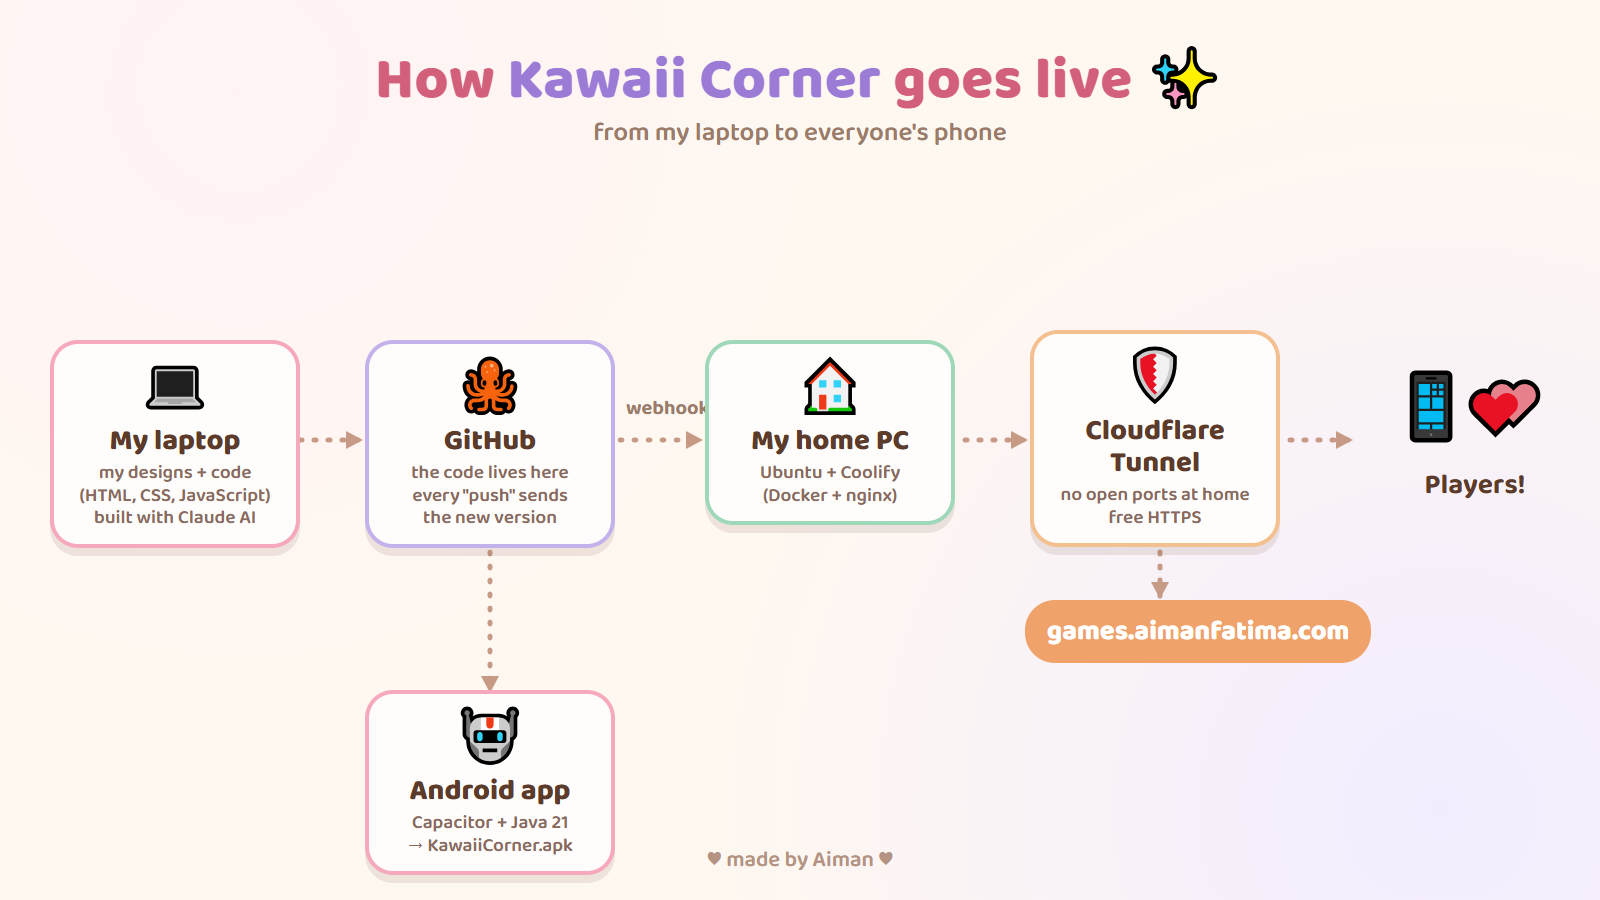
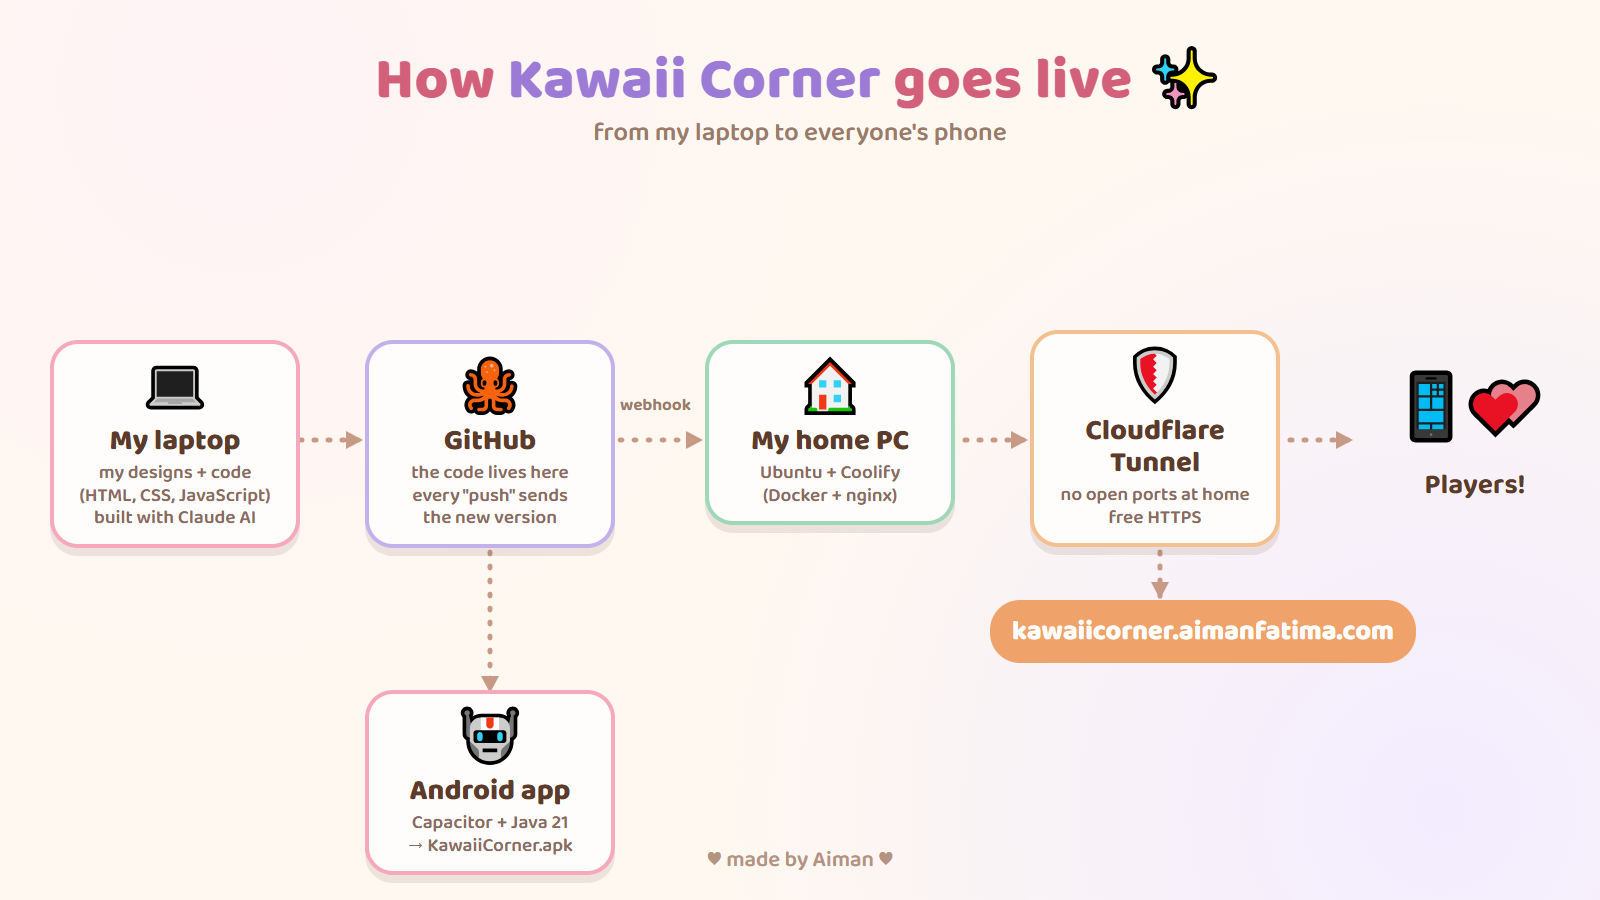
Hosting diagram shows kawaiicorner.aimanfatima.com

Changed region(s): [[0.5938, 0.6533, 0.9062, 0.7467], [0.375, 0.4356, 0.4375, 0.4667]]

diff --git a/HANDOFF.md b/HANDOFF.md
@@ -9,7 +9,7 @@ I'm Aiman (beginner developer, Pakistan; I like short plain explanations and pic
 **Where it lives**
 - Project: `C:\Users\QA\Desktop\flappy-bunny` (git, branch `main`, GitHub: https://github.com/aimanfatima25/bunny-world, public)
 - Website (auto-deploys on every push): https://kawaiicorner.vercel.app — always send me this link after changes
-- Also on my Coolify server: https://kawaiicorner.aimanfatima.com (new name, my uncle's idea) and https://games.aimanfatima.com (Coolify project "bunny-world", Dockerfile + nginx; auto-deploys on every push via a GitHub webhook to Coolify's manual GitHub webhook (added 2026-10-15); if it ever stops, press Actions → Deploy in https://coolify.aimanfatima.com). My server is only reachable through a locally-managed Cloudflare Tunnel "aiman-home" (`/etc/cloudflared/config.yml`); new subdomains need a tunnel route that I add myself.
+- Also on my Coolify server: https://kawaiicorner.aimanfatima.com (new name, my uncle's idea; tunnel route + DNS CNAME added 2026-10-16) and https://games.aimanfatima.com (Coolify project "bunny-world", Dockerfile + nginx; auto-deploys on every push via a GitHub webhook to Coolify's manual GitHub webhook (added 2026-10-15); if it ever stops, press Actions → Deploy in https://coolify.aimanfatima.com). My server is only reachable through a locally-managed Cloudflare Tunnel "aiman-home" (`/etc/cloudflared/config.yml`); new subdomains need a tunnel route that I add myself.
 - Plain HTML/CSS/JS, no framework. Everything is designed at 360 x 640 and scaled; on phones it's full screen and the layer grows taller.
 
 **Design rules (important to me)**
